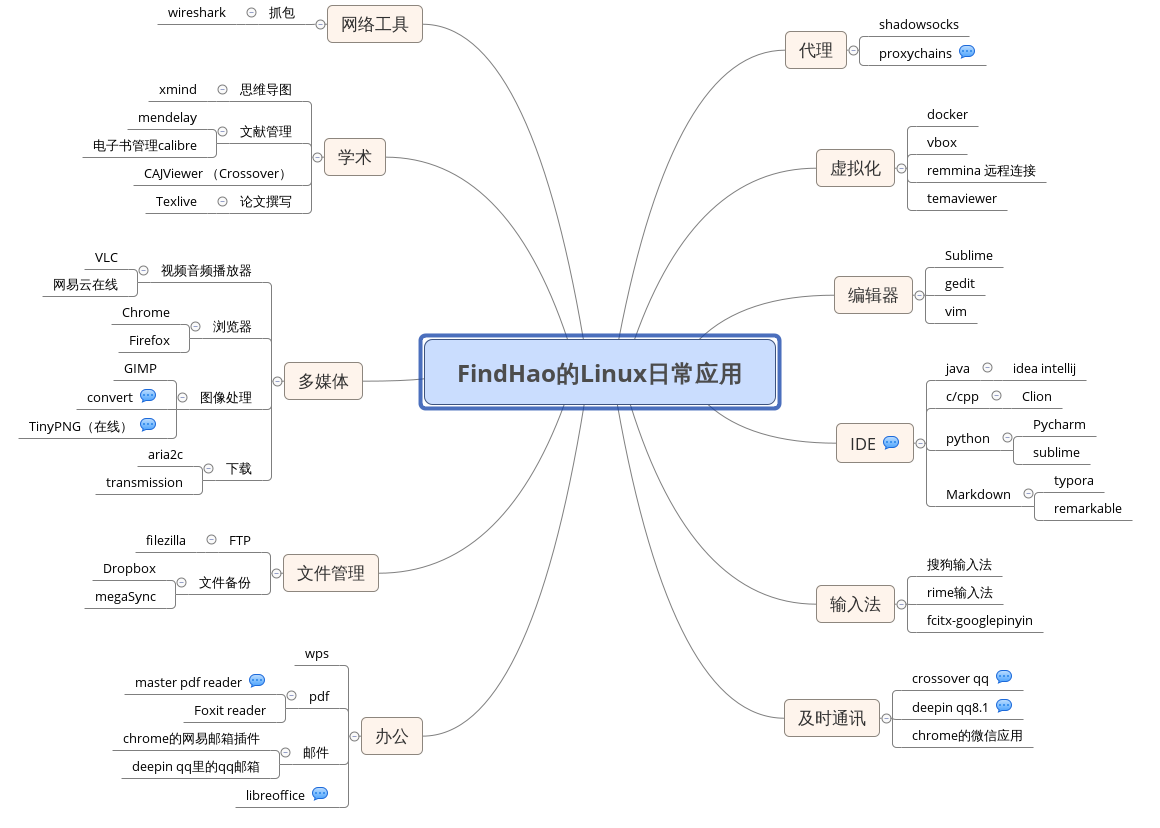
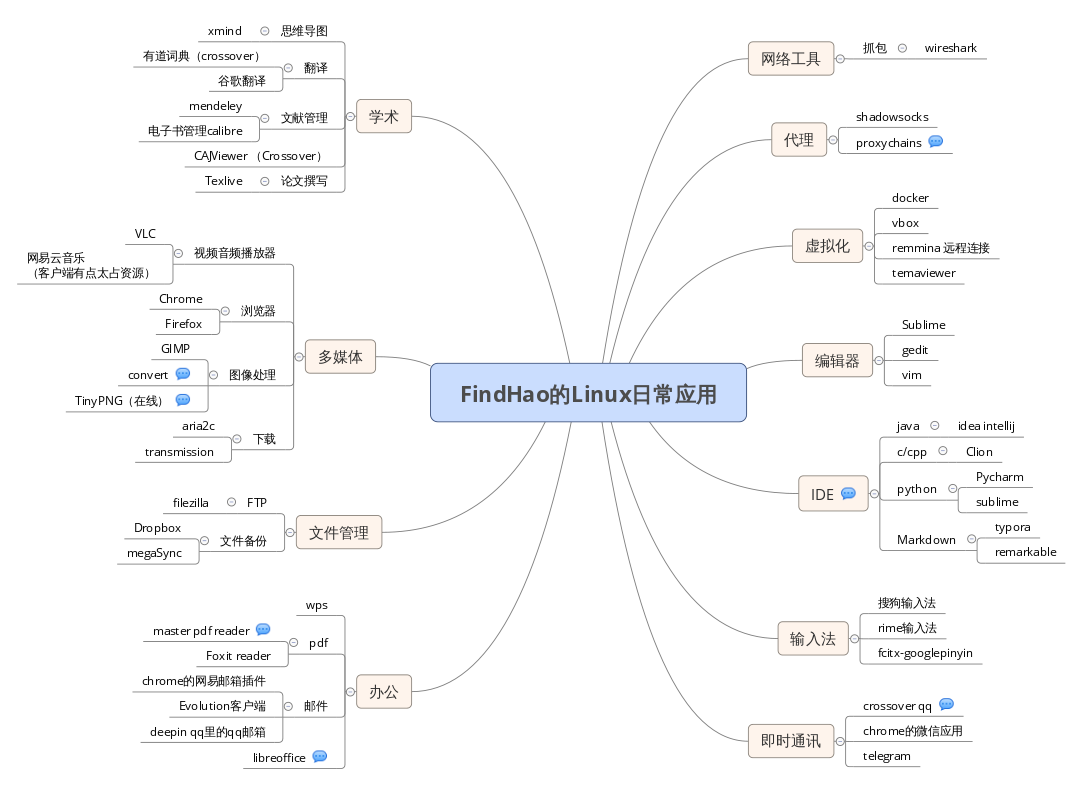
修正mendeley，添加邮箱等

diff --git a/README.md b/README.md
@@ -2,6 +2,8 @@
 
 记录了我的一些思维导图，不断完善更新。
 
+图片可能不是最新的，请下载xmind文件查看。
+
 ![](https://github.com/FindHao/my_xminds/raw/master/Linux%E6%97%A5%E5%B8%B8%E5%BA%94%E7%94%A8.png)
 
 ![](https://github.com/FindHao/my_xminds/raw/master/chrome%E6%8F%92%E4%BB%B6.png)
